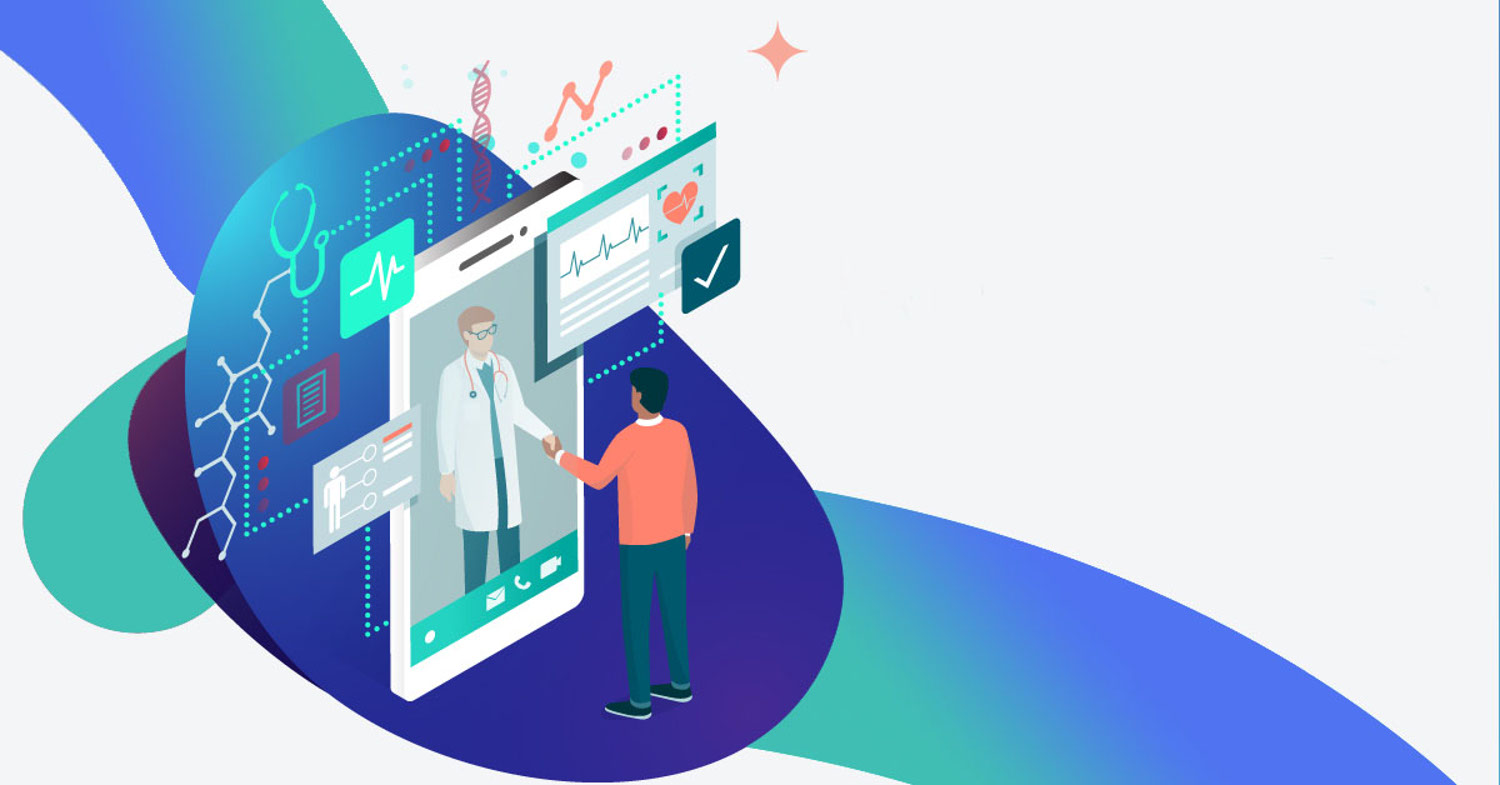
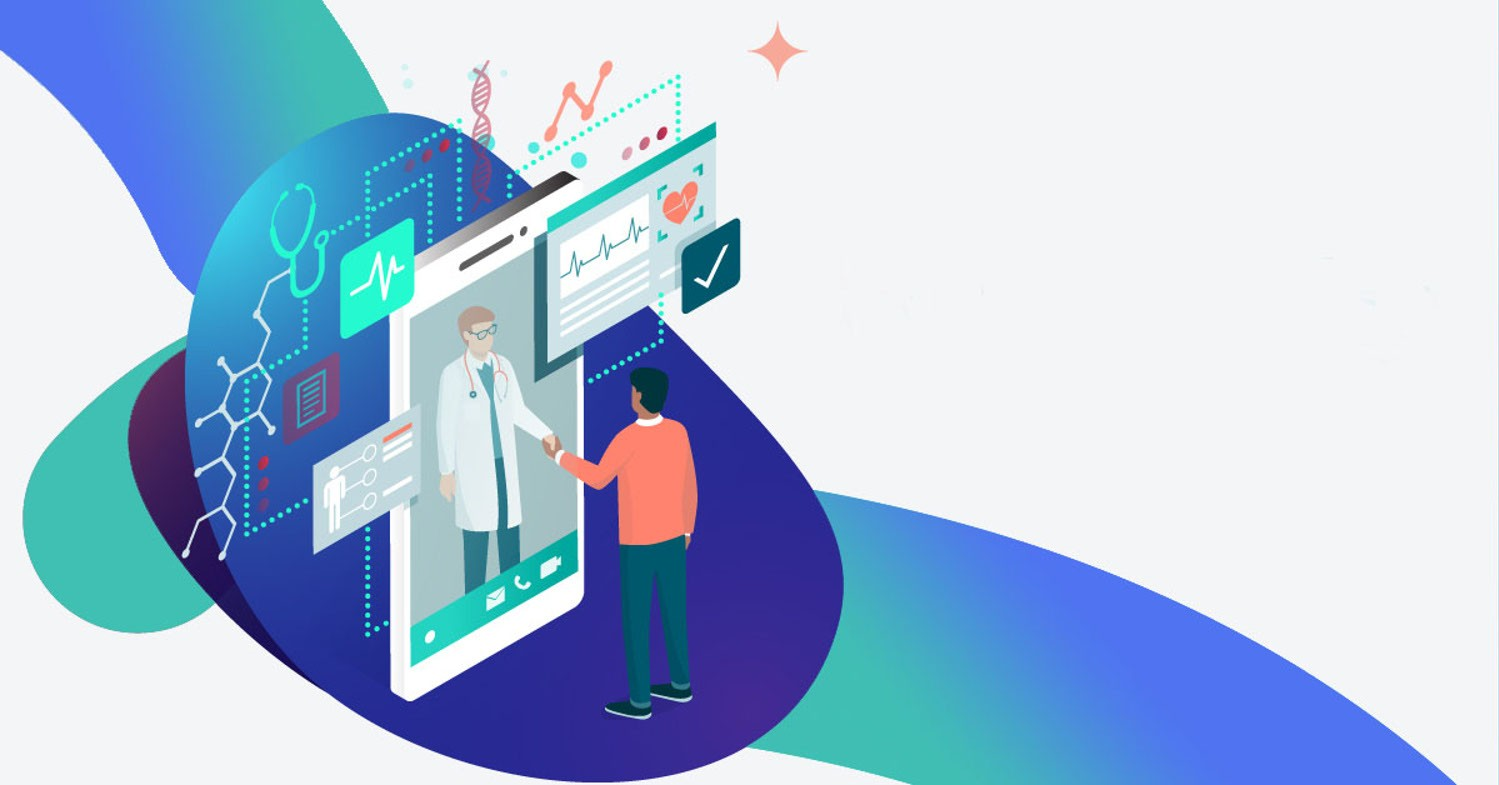
Modify Intor bg image per breakpoint
1. Have small, medium and large versions
2. Modify image url and positions per bkpoint

diff --git a/src/scss/newCss/VisitorLayout/_homepage.scss b/src/scss/newCss/VisitorLayout/_homepage.scss
@@ -1,12 +1,21 @@
 .mobile-container {
-  background: url('https://tinyimg.io/i/kj86oe3.png') no-repeat;
+  background: url('https://tinyimg.io/i/oXj6Ksh.png') no-repeat;
   background-size: cover;
-  background-position: 25%;
+  background-position: 75%;
   height: 100vh;
 
-  @media screen and(min-width:398px) {
-    background: url('https://i.imgur.com/avdEbTW.jpg') no-repeat;
+  @media screen and (min-width: 520px) {
+    background: url('https://tinyimg.io/i/gWP7ZYW.jpg') no-repeat;
+    background-position: 40%;
+  }
+
+  @media screen and(min-width:840px) {
+    background: url('http://tinyimg.io/i/ItatAT5.jpg') no-repeat;
     background-position: 20%;
+  }
+
+  @media screen and (min-width: 1195px) {
+    background-size: 100%;
   }
 }
 
